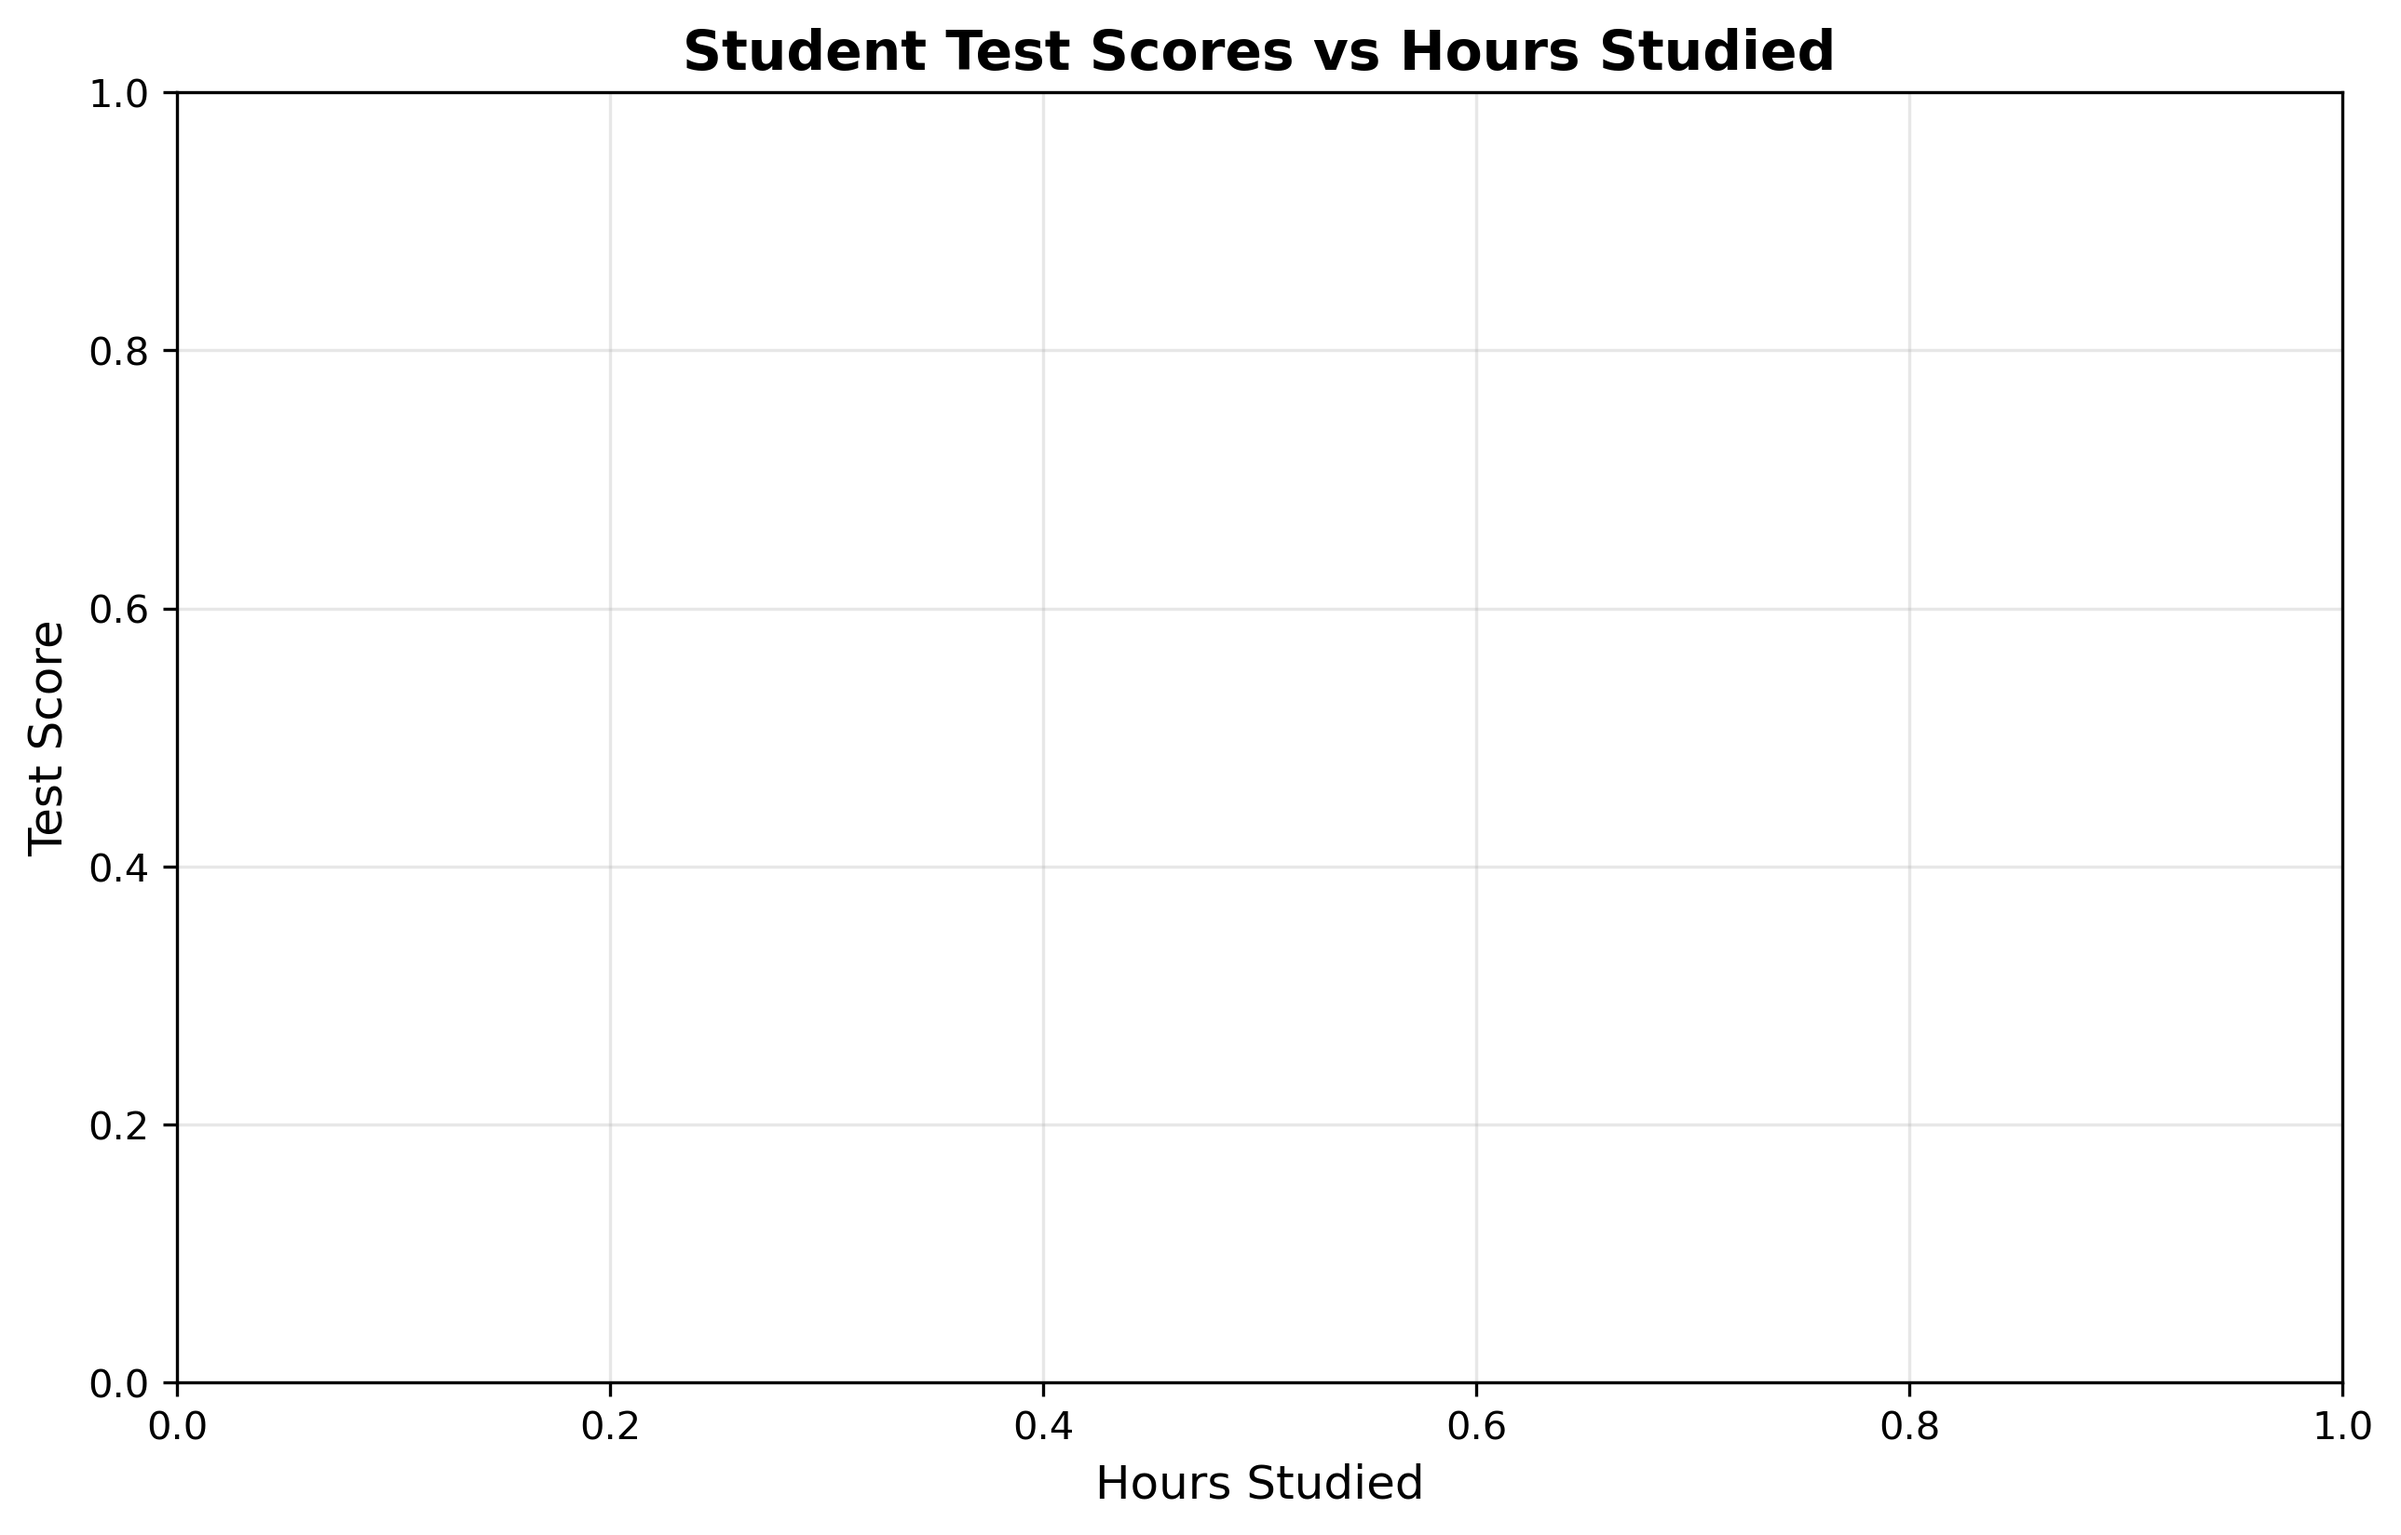
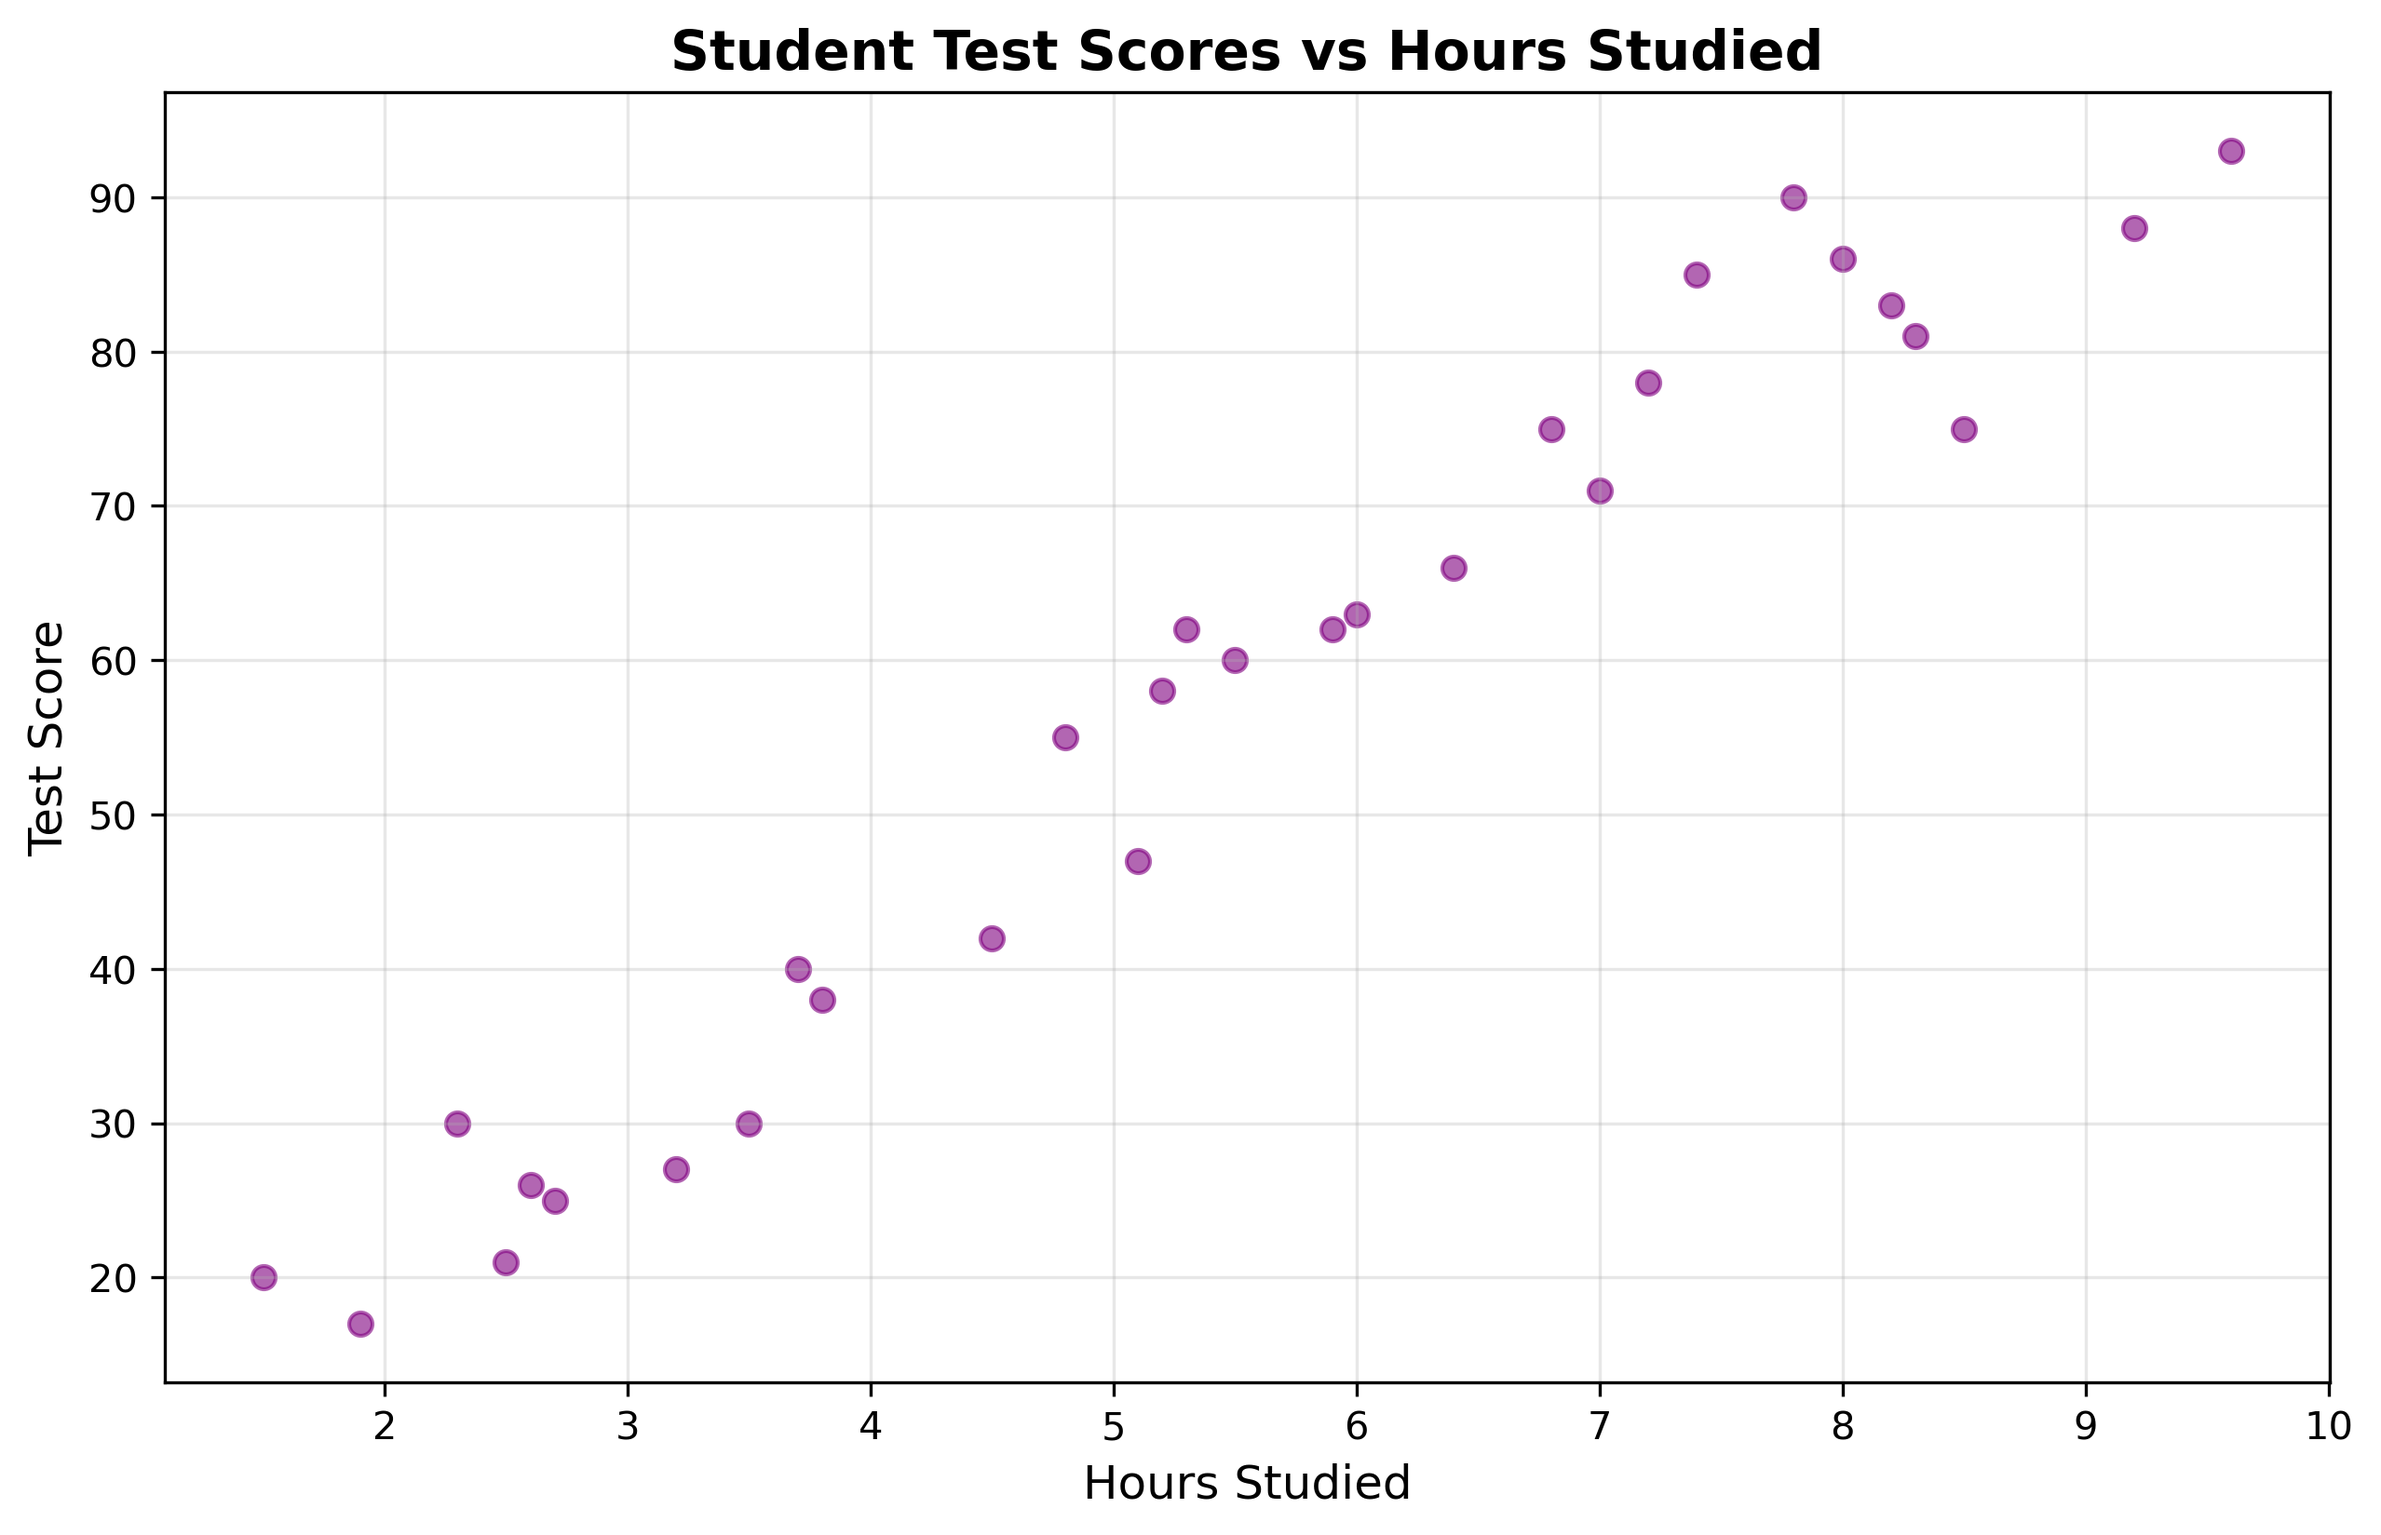
done with program

diff --git a/a6_part1.py b/a6_part1.py
@@ -51,7 +51,8 @@ def create_scatter_plot(data):
     plt.figure(figsize=(10,6))
     # TODO: Create a scatter plot with Hours on x-axis and Scores on y-axis
     #       Use color='purple' and alpha=0.6
-    
+    plt.scatter(data['Hours'], data['Scores'], color='purple', alpha=0.6)
+
     # TODO: Add x-axis label: 'Hours Studied'
     plt.xlabel('Hours Studied', fontsize=12)
     # TODO: Add y-axis label: 'Test Score'
